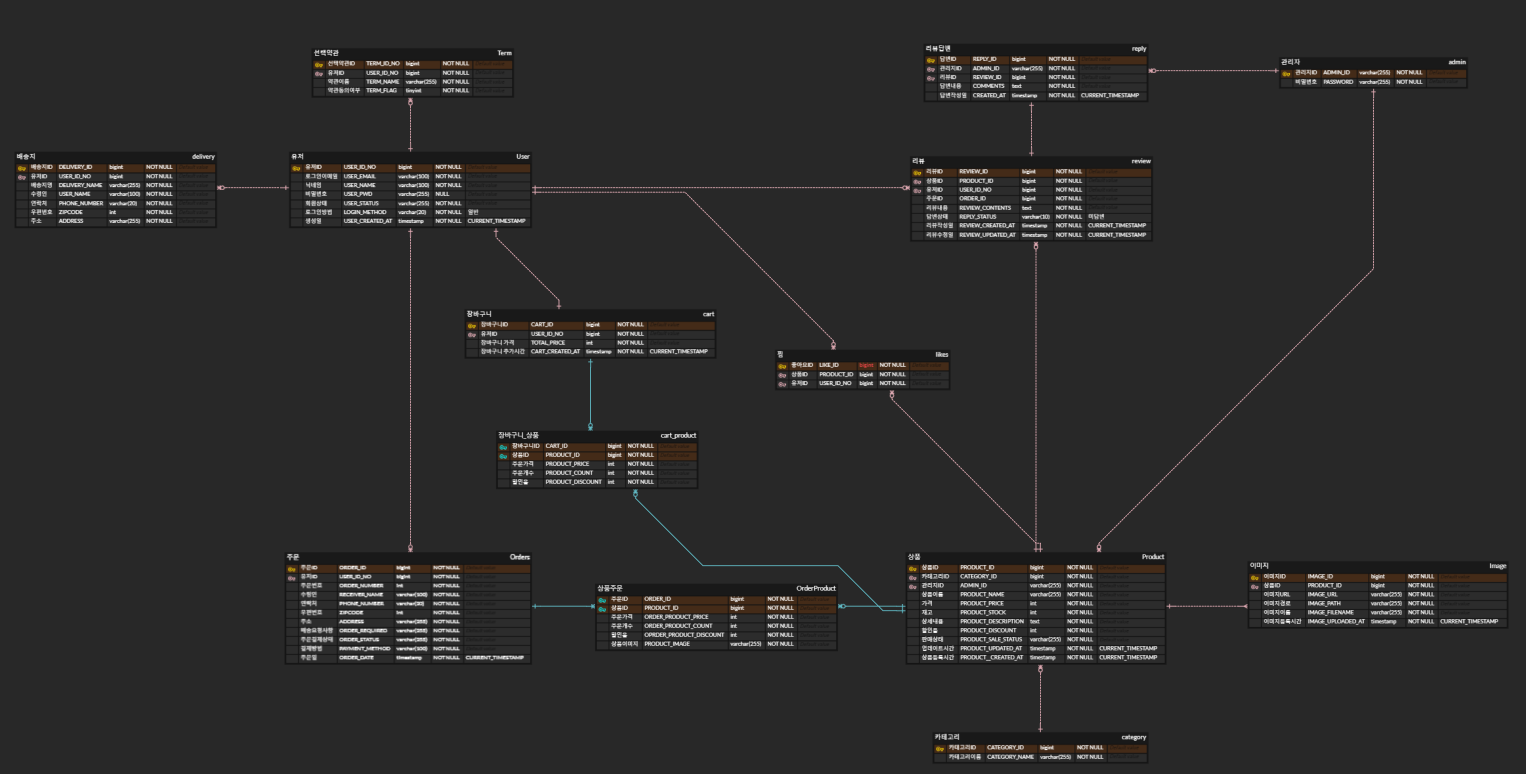
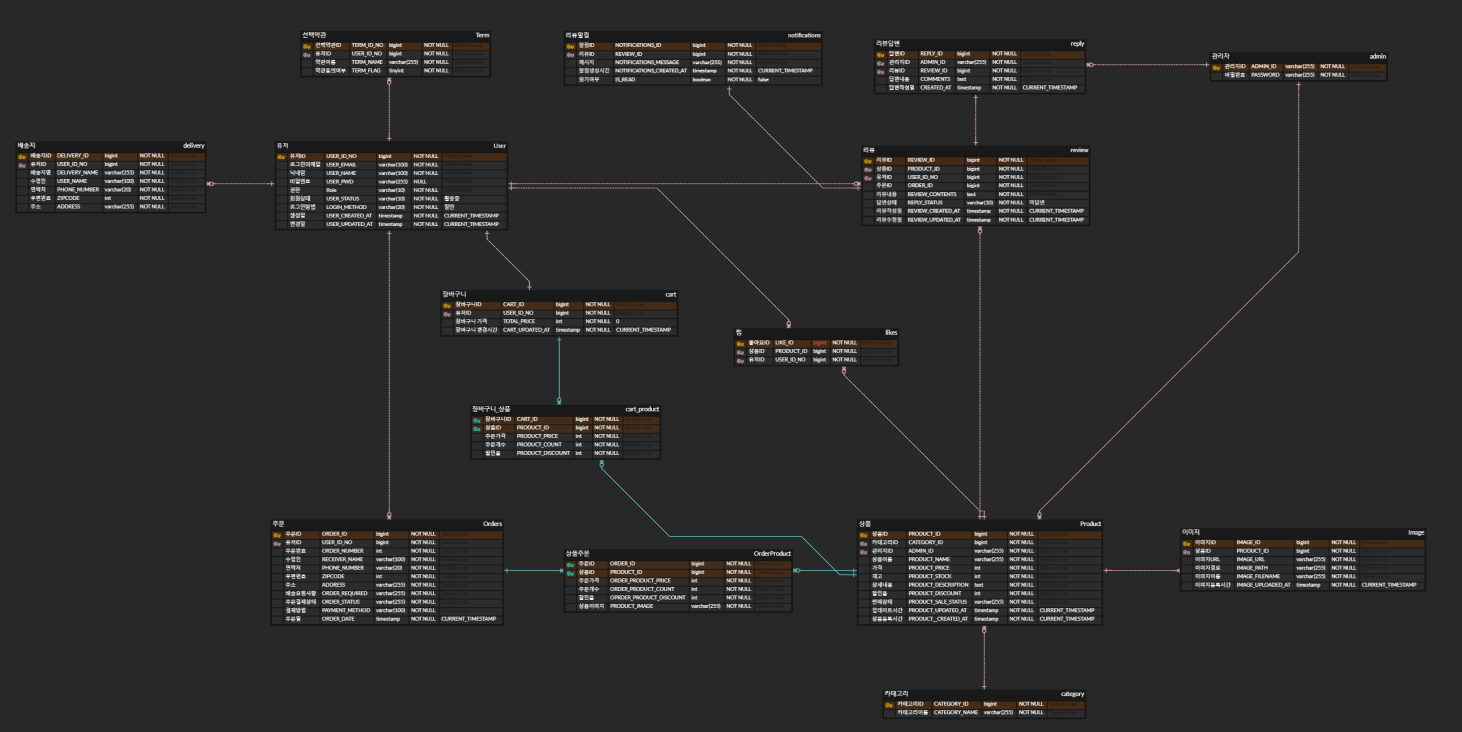
update : ERD 이미지 및 기능 소개 수정

diff --git a/README.md b/README.md
@@ -1,4 +1,4 @@
-# 프룻 프룻 쇼핑몰 🍎
+# 프룻 프룻 쇼핑몰 - 회원 서버 🍎
 
 <br>
 
@@ -10,7 +10,7 @@
 📌 BackEnd
 <br>
 <br>
-<img src="https://img.shields.io/badge/Spring Boot 2.7.6-6DB33F?style=flat-square&logo=springboot&logoColor=white"/>
+<img src="https://img.shields.io/badge/Spring Boot-6DB33F?style=flat-square&logo=springboot&logoColor=white"/>
 <img src="https://img.shields.io/badge/Spring Security-00AB77?style=flat-square&logo=springsecurity&logoColor=white"/>
 <img src="https://img.shields.io/badge/java 11-007396?style=flat-square&logo=java&logoColor=white"/>
 <img src="https://img.shields.io/badge/Gradle-02303A?style=flat-square&logo=Gradle&logoColor=white"/>
@@ -19,8 +19,8 @@
 <br>
 <img src="https://img.shields.io/badge/MySQL-4479A1?style=flat-square&logo=MySQL&logoColor=white"/>
 <img src="https://img.shields.io/badge/Redis-DC382D?style=flat-square&logo=redis&logoColor=white"/>
-<img src="https://img.shields.io/badge/Firebase-FFCA28?style=flat-square&logo=firebase&logoColor=white"/>
 <img src="https://img.shields.io/badge/MyBatis-9EB0A2?style=flat-square&logo=&logoColor=white"/>
+<img src="https://img.shields.io/badge/Kafka-231F20?style=flat-square&logo=apachekafka&logoColor=white"/>
 <br>
 <br>
 </p>
@@ -32,10 +32,8 @@
 <img src="https://img.shields.io/badge/HTML5-E34F26?style=flat-square&logo=html5&logoColor=white"/>
 <img src="https://img.shields.io/badge/CSS3-1572B6?style=flat-square&logo=css3&logoColor=white"/>
 <img src="https://img.shields.io/badge/jQuery-0769AD?style=flat-square&logo=jQuery&logoColor=white"/>
-<img src="https://img.shields.io/badge/Axios-5A29E4?style=flat-square&logo=axios&logoColor=white"/>
 <br>
-<img src="https://img.shields.io/badge/Swiper-6332F6?style=flat-square&logo=swiper&logoColor=white"/>
-<img src="https://img.shields.io/badge/TinyMCE-2596BE?style=flat-square&logo=TinyMCE&logoColor=white"/>
+<img src="https://img.shields.io/badge/Axios-5A29E4?style=flat-square&logo=axios&logoColor=white"/>
 <img src="https://img.shields.io/badge/Thymeleaf-005F0F?style=flat-square&logo=thymeleaf&logoColor=white"/>
 <br>
 </p>
@@ -56,18 +54,10 @@
 |     상품 상세     | 판매자가 등록한 상품의 정보 및 <br/>상품 상세 설명 이미지와 글을 보여준다. |           판매 상품의 상세 정보를 확인하고<br/>상품에 대한 리뷰를 확인 및 작성 가능.            |
 |     리뷰작성      |            구매한 상품에 대한 리뷰 작성 가능  .             |                        해당 상품을 구매한 수량만큼 리뷰작성                        |
 |     주문 결제     |       구매자가 선택한 상품들을 iamport API를 이용해 결제       |                  상품 재고 부족 시 자동 결제 취소 (동시성 문제 고려)                   |
+|    실시간 알림     |     구매자가 작성한 리뷰에 판매자의 댓글이 달릴 시 실시간 알림 수신      |           Kafka에서 해당 메세지를 수신해 SSE 연결된 클라이언트에게 실시간 알림 전송            |
 <br>
-
-- #### 👨🏻🔧 관리자
-|      기능       |         설명          |                              비고                               |
-|:-------------:|:-------------------:|:-------------------------------------------------------------:|
-| 상품등록 |  판매하고자 하는 상품을 등록.   |     상품명, 분류, 가격, 할인율, 수량, 대표이미지,<br/> 상품 상세 설명(텍스트 및 이미지)     |
-| 상품관리 | 판매등록한 상품들을 확인하고 관리. | 조건별(판매상태, 분류, 상품명) 검색으로 조건에 맞는 상품 확인.<br/>상품 수정 및 상품 판매 중지 가능. |
-<br>
-
 
 ---
 ## 📋 ERD
 👉🏻 **ERD 링크 바로가기 :** https://www.erdcloud.com/d/N33PiySjCTmbMZxTq
-
 ![img.png](img.png)
